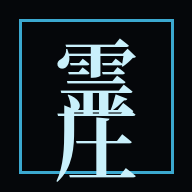
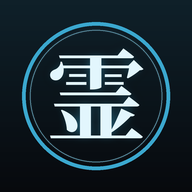
Add files via upload

diff --git a/index.html b/index.html
@@ -8,6 +8,12 @@
 <meta name="apple-mobile-web-app-capable" content="yes">
 <meta name="apple-mobile-web-app-status-bar-style" content="black-translucent">
 <meta name="apple-mobile-web-app-title" content="REIATSU">
+<link rel="manifest" href="manifest.json">
+<link rel="icon" href="favicon.ico" sizes="32x32">
+<link rel="icon" type="image/png" sizes="32x32" href="favicon-32.png">
+<link rel="icon" type="image/png" sizes="16x16" href="favicon-16.png">
+<link rel="icon" type="image/png" sizes="192x192" href="icon-192.png">
+<link rel="apple-touch-icon" href="apple-touch-icon.png">
 <title>Karta Postaci — REIATSU 100</title>
 <style>
 @import url('https://fonts.googleapis.com/css2?family=Shippori+Mincho:wght@600;800&family=JetBrains+Mono:wght@400;500;700&display=swap');

diff --git a/sw.js b/sw.js
@@ -1,4 +1,4 @@
-var CACHE = 'reiatsu100-pwa-v3';
+var CACHE = 'reiatsu100-pwa-v4';
 var ASSETS = ['./', './index.html', './manifest.json', './icon-192.png', './icon-512.png'];
 
 self.addEventListener('install', function(e) {